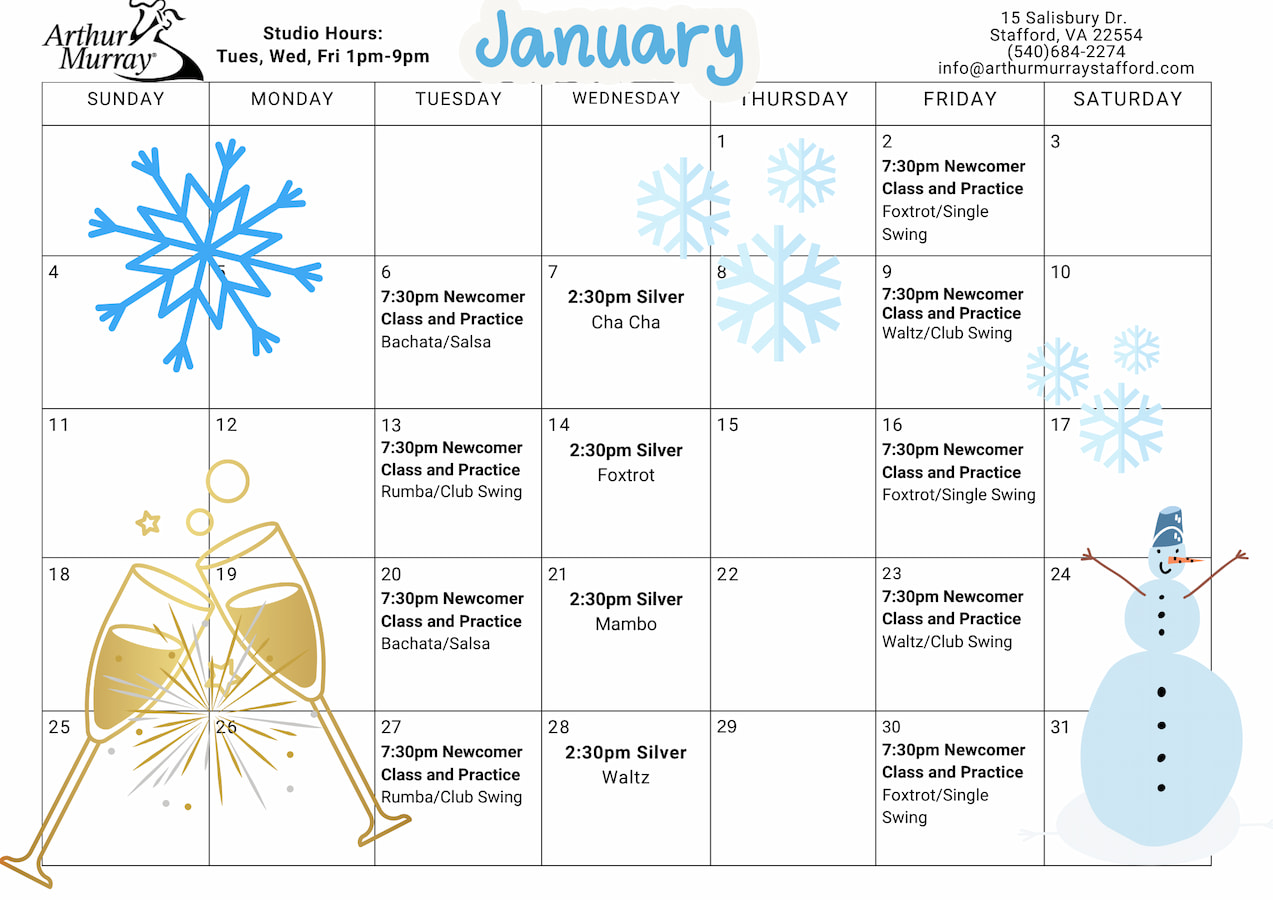
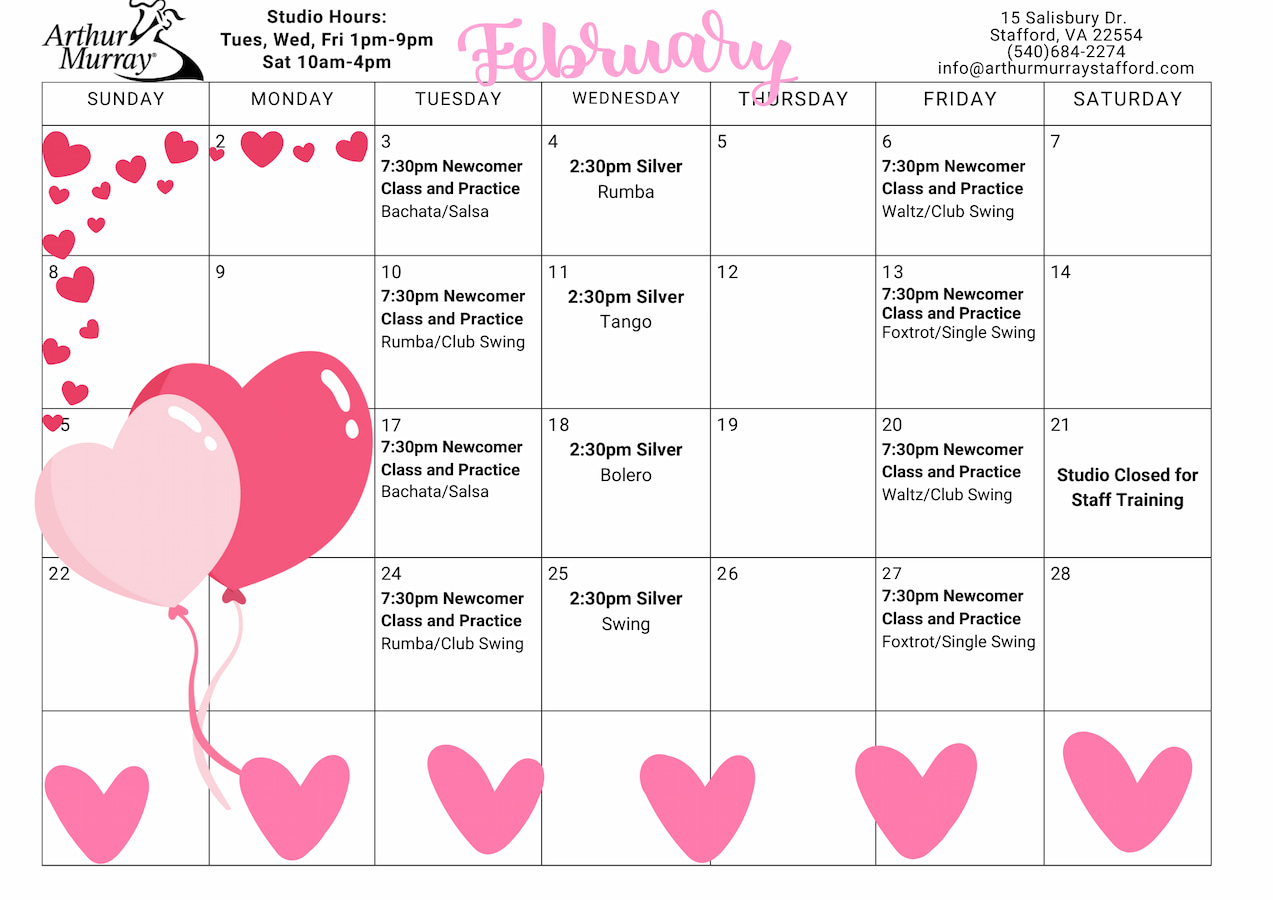
Removes Jan cal

diff --git a/build/dance-lessons-dumfries.html b/build/dance-lessons-dumfries.html
@@ -1507,7 +1507,7 @@
     class="calendar"
   />
 </a>
-<a
+<!-- <a
   href="./images/staffordCalendarNext.jpg"
   target="_blank"
   aria-label="opens in a new tab"
@@ -1519,7 +1519,7 @@
     height="773"
     class="calendar"
   />
-</a>
+</a> -->
 <h2 class="calendar-header" id="calendar2">Current Student Calendar</h2>
 <!--<a
   href="./images/staffordCalendarMedalist.jpg"

diff --git a/build/dance-lessons-fredericksburg.html b/build/dance-lessons-fredericksburg.html
@@ -1509,7 +1509,7 @@
     class="calendar"
   />
 </a>
-<a
+<!-- <a
   href="./images/staffordCalendarNext.jpg"
   target="_blank"
   aria-label="opens in a new tab"
@@ -1521,7 +1521,7 @@
     height="773"
     class="calendar"
   />
-</a>
+</a> -->
 <h2 class="calendar-header" id="calendar2">Current Student Calendar</h2>
 <!--<a
   href="./images/staffordCalendarMedalist.jpg"

diff --git a/build/dance-lessons-stafford.html b/build/dance-lessons-stafford.html
@@ -1506,7 +1506,7 @@
     class="calendar"
   />
 </a>
-<a
+<!-- <a
   href="./images/staffordCalendarNext.jpg"
   target="_blank"
   aria-label="opens in a new tab"
@@ -1518,7 +1518,7 @@
     height="773"
     class="calendar"
   />
-</a>
+</a> -->
 <h2 class="calendar-header" id="calendar2">Current Student Calendar</h2>
 <!--<a
   href="./images/staffordCalendarMedalist.jpg"

diff --git a/build/dance-lessons-woodbridge.html b/build/dance-lessons-woodbridge.html
@@ -1507,7 +1507,7 @@
     class="calendar"
   />
 </a>
-<a
+<!-- <a
   href="./images/staffordCalendarNext.jpg"
   target="_blank"
   aria-label="opens in a new tab"
@@ -1519,7 +1519,7 @@
     height="773"
     class="calendar"
   />
-</a>
+</a> -->
 <h2 class="calendar-header" id="calendar2">Current Student Calendar</h2>
 <!--<a
   href="./images/staffordCalendarMedalist.jpg"

diff --git a/build/partials/calendar.html b/build/partials/calendar.html
@@ -13,7 +13,7 @@
     class="calendar"
   />
 </a>
-<a
+<!-- <a
   href="./images/staffordCalendarNext.jpg"
   target="_blank"
   aria-label="opens in a new tab"
@@ -25,7 +25,7 @@
     height="773"
     class="calendar"
   />
-</a>
+</a> -->
 <h2 class="calendar-header" id="calendar2">Current Student Calendar</h2>
 <!--<a
   href="./images/staffordCalendarMedalist.jpg"

diff --git a/src/partials/calendar.html b/src/partials/calendar.html
@@ -13,7 +13,7 @@
     class="calendar"
   />
 </a>
-<a
+<!-- <a
   href="./images/staffordCalendarNext.jpg"
   target="_blank"
   aria-label="opens in a new tab"
@@ -25,7 +25,7 @@
     height="773"
     class="calendar"
   />
-</a>
+</a> -->
 <h2 class="calendar-header" id="calendar2">Current Student Calendar</h2>
 <!--<a
   href="./images/staffordCalendarMedalist.jpg"
